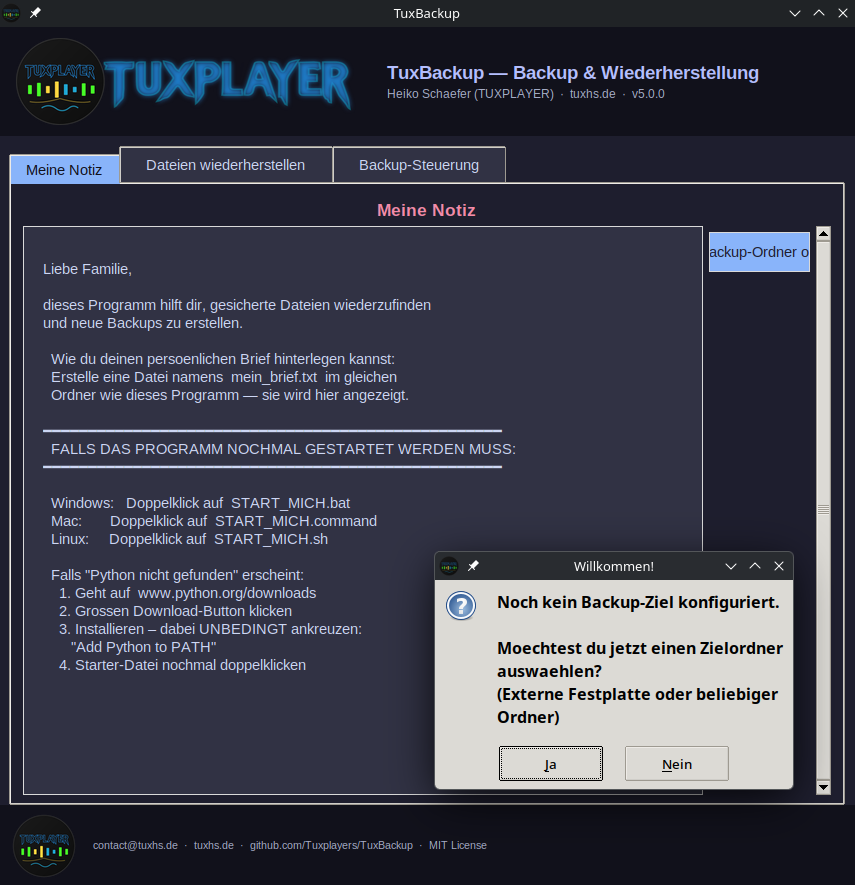
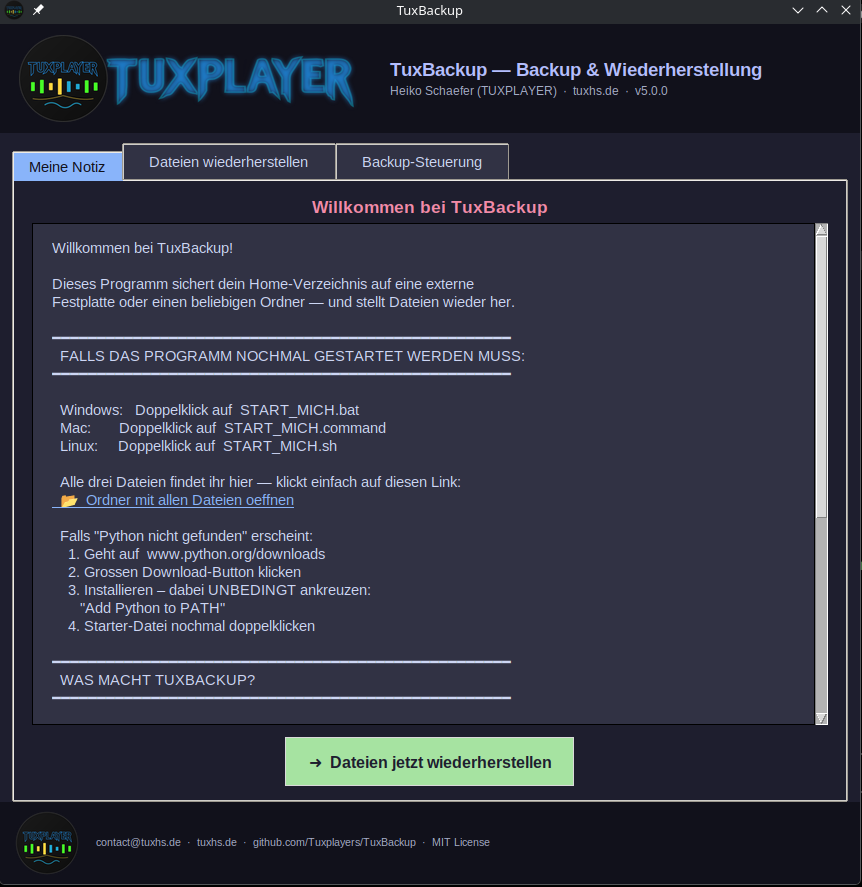
TuxBackup v5.0.0 - Brief-Tab fix: Layout korrekt, kein Popup, neue Screenshots

diff --git a/tuxplayer_backup_gui.py b/tuxplayer_backup_gui.py
@@ -187,18 +187,8 @@ class TuxPlayerApp:
         self._build_ui()
         self._backup_refresh_status()
 
-        # Erstkonfiguration: kein Ziel gesetzt
-        if not self._cfg.get("backup_target"):
-            self.root.after(500, self._ask_first_run)
 
-    def _ask_first_run(self):
-        if messagebox.askyesno(
-            "Willkommen!",
-            "Noch kein Backup-Ziel konfiguriert.\n\n"
-            "Moechtest du jetzt einen Zielordner auswaehlen?\n"
-            "(Externe Festplatte oder beliebiger Ordner)"
-        ):
-            self._choose_backup_target()
+
 
     def _build_ui(self):
         hdr = tk.Frame(self.root, bg=CRUST, pady=10)
@@ -247,45 +237,105 @@ class TuxPlayerApp:
         except Exception as e:
             messagebox.showerror("Fehler", f"Ordner konnte nicht geoeffnet werden:\n{e}")
 
-    # ── Tab 1: Meine Notiz ────────────────────────────────────────────────────
+    # ── Tab 1: Meine Notiz ──────────────────────────────────────────────────
     def _build_brief_tab(self, parent):
-        tk.Label(parent, text="Meine Notiz",
+        tk.Label(parent, text="Willkommen bei TuxBackup",
                  font=("Arial", 13, "bold"), fg=PINK, bg=BG).pack(pady=(14, 4))
 
-        txt = tk.Text(parent, wrap=tk.WORD, font=("Arial", 11),
+        frame = tk.Frame(parent, bg=BG)
+        frame.pack(fill=tk.BOTH, expand=True, padx=18, pady=(0, 8))
+
+        sb = tk.Scrollbar(frame)
+        sb.pack(side=tk.RIGHT, fill=tk.Y)
+
+        txt = tk.Text(frame, wrap=tk.WORD, font=("Arial", 11),
                       fg=TEXT, bg=SURFACE, relief=tk.FLAT,
-                      padx=18, pady=14, state=tk.DISABLED)
-        sb = ttk.Scrollbar(parent, orient=tk.VERTICAL, command=txt.yview)
-        txt.configure(yscrollcommand=sb.set)
-        txt.pack(side=tk.LEFT, fill=tk.BOTH, expand=True, padx=(12, 0), pady=(0, 8))
-        sb.pack(side=tk.RIGHT, fill=tk.Y, pady=(0, 8), padx=(0, 12))
+                      padx=18, pady=14, yscrollcommand=sb.set)
+        txt.pack(fill=tk.BOTH, expand=True)
+        sb.config(command=txt.yview)
 
         txt.tag_config("link", foreground=BLUE, underline=True)
+        txt.tag_bind("link", "<Enter>",    lambda e: txt.config(cursor="hand2"))
+        txt.tag_bind("link", "<Leave>",    lambda e: txt.config(cursor=""))
+        txt.tag_bind("link", "<Button-1>", lambda e: self._open_folder())
 
-        brief_text = DEFAULT_BRIEF
+        # Persoenliche Notiz aus Datei — falls vorhanden
         if os.path.exists(BRIEF_FILE):
             try:
                 with open(BRIEF_FILE, "r", encoding="utf-8") as f:
-                    brief_text = f.read()
+                    txt.insert(tk.END, f.read())
+                txt.config(state=tk.DISABLED)
+                tk.Button(
+                    parent,
+                    text="\u279c  Dateien jetzt wiederherstellen",
+                    command=lambda: self._nb.select(1),
+                    font=("Arial", 12, "bold"),
+                    fg=BG, bg=GREEN,
+                    relief=tk.FLAT, padx=20, pady=12, cursor="hand2",
+                ).pack(pady=(4, 14))
+                return
             except Exception:
                 pass
 
-        txt.config(state=tk.NORMAL)
-        txt.insert(tk.END, brief_text)
+        # Standard-Text (oeffentlich)
+        intro = """Willkommen bei TuxBackup!
+
+Dieses Programm sichert dein Home-Verzeichnis auf eine externe
+Festplatte oder einen beliebigen Ordner — und stellt Dateien wieder her.
+
+\u2501\u2501\u2501\u2501\u2501\u2501\u2501\u2501\u2501\u2501\u2501\u2501\u2501\u2501\u2501\u2501\u2501\u2501\u2501\u2501\u2501\u2501\u2501\u2501\u2501\u2501\u2501\u2501\u2501\u2501\u2501\u2501\u2501\u2501\u2501\u2501\u2501\u2501\u2501\u2501\u2501\u2501\u2501\u2501\u2501\u2501\u2501\u2501\u2501\u2501\u2501
+  FALLS DAS PROGRAMM NOCHMAL GESTARTET WERDEN MUSS:
+\u2501\u2501\u2501\u2501\u2501\u2501\u2501\u2501\u2501\u2501\u2501\u2501\u2501\u2501\u2501\u2501\u2501\u2501\u2501\u2501\u2501\u2501\u2501\u2501\u2501\u2501\u2501\u2501\u2501\u2501\u2501\u2501\u2501\u2501\u2501\u2501\u2501\u2501\u2501\u2501\u2501\u2501\u2501\u2501\u2501\u2501\u2501\u2501\u2501\u2501\u2501
+
+  Windows:   Doppelklick auf  START_MICH.bat
+  Mac:       Doppelklick auf  START_MICH.command
+  Linux:     Doppelklick auf  START_MICH.sh
+
+  Alle drei Dateien findet ihr hier \u2014 klickt einfach auf diesen Link:\n"""
+
+        txt.insert(tk.END, intro)
+        txt.insert(tk.END, "  \U0001f4c2  Ordner mit allen Dateien oeffnen", "link")
+        txt.insert(tk.END, """
+
+  Falls \"Python nicht gefunden\" erscheint:
+    1. Geht auf  www.python.org/downloads
+    2. Grossen Download-Button klicken
+    3. Installieren \u2013 dabei UNBEDINGT ankreuzen:
+       \"Add Python to PATH\"
+    4. Starter-Datei nochmal doppelklicken
+
+\u2501\u2501\u2501\u2501\u2501\u2501\u2501\u2501\u2501\u2501\u2501\u2501\u2501\u2501\u2501\u2501\u2501\u2501\u2501\u2501\u2501\u2501\u2501\u2501\u2501\u2501\u2501\u2501\u2501\u2501\u2501\u2501\u2501\u2501\u2501\u2501\u2501\u2501\u2501\u2501\u2501\u2501\u2501\u2501\u2501\u2501\u2501\u2501\u2501\u2501\u2501
+  WAS MACHT TUXBACKUP?
+\u2501\u2501\u2501\u2501\u2501\u2501\u2501\u2501\u2501\u2501\u2501\u2501\u2501\u2501\u2501\u2501\u2501\u2501\u2501\u2501\u2501\u2501\u2501\u2501\u2501\u2501\u2501\u2501\u2501\u2501\u2501\u2501\u2501\u2501\u2501\u2501\u2501\u2501\u2501\u2501\u2501\u2501\u2501\u2501\u2501\u2501\u2501\u2501\u2501\u2501\u2501
+
+  Backup erstellen    \u2013 sichert dein Home-Verzeichnis als
+  komprimiertes .tar.gz-Archiv mit SHA256-Pruefsumme.
+  Zu finden unter:  Backup-Zielordner/
+
+  Dateien wiederherstellen  \u2013 entpackt ein vorhandenes Backup
+  in einen Ordner deiner Wahl.
+
+  Dry-Run (Simulation)  \u2013 testet das Backup vollstaendig
+  ohne auch nur ein Byte zu schreiben.
+
+\u2501\u2501\u2501\u2501\u2501\u2501\u2501\u2501\u2501\u2501\u2501\u2501\u2501\u2501\u2501\u2501\u2501\u2501\u2501\u2501\u2501\u2501\u2501\u2501\u2501\u2501\u2501\u2501\u2501\u2501\u2501\u2501\u2501\u2501\u2501\u2501\u2501\u2501\u2501\u2501\u2501\u2501\u2501\u2501\u2501\u2501\u2501\u2501\u2501\u2501\u2501
+
+Entwickelt von Heiko Schaefer (TUXPLAYER)
+https://tuxhs.de  \u00b7  github.com/Tuxplayers/TuxBackup
+
+Tipp: Lege eine Datei  mein_brief.txt  in den Programmordner,
+um hier deine persoenliche Notiz anzuzeigen.""")
+
         txt.config(state=tk.DISABLED)
 
-        btn_frame = tk.Frame(parent, bg=BG)
-        btn_frame.pack(pady=6)
-        tk.Button(btn_frame, text="📂  Backup-Ordner oeffnen",
-                  command=self._open_folder,
-                  font=("Arial", 11), fg=BG, bg=BLUE,
-                  relief=tk.FLAT, padx=16, pady=8, cursor="hand2"
-                  ).pack(side=tk.LEFT, padx=6)
-        tk.Button(btn_frame, text="→  Dateien wiederherstellen",
-                  command=lambda: self._nb.select(1),
-                  font=("Arial", 11), fg=BG, bg=GREEN,
-                  relief=tk.FLAT, padx=16, pady=8, cursor="hand2"
-                  ).pack(side=tk.LEFT, padx=6)
+        tk.Button(
+            parent,
+            text="\u279c  Dateien jetzt wiederherstellen",
+            command=lambda: self._nb.select(1),
+            font=("Arial", 12, "bold"),
+            fg=BG, bg=GREEN,
+            relief=tk.FLAT, padx=20, pady=12, cursor="hand2",
+        ).pack(pady=(4, 14))
 
     # ── Tab 2: Wiederherstellen ───────────────────────────────────────────────
     def _build_restore_tab(self, parent):
